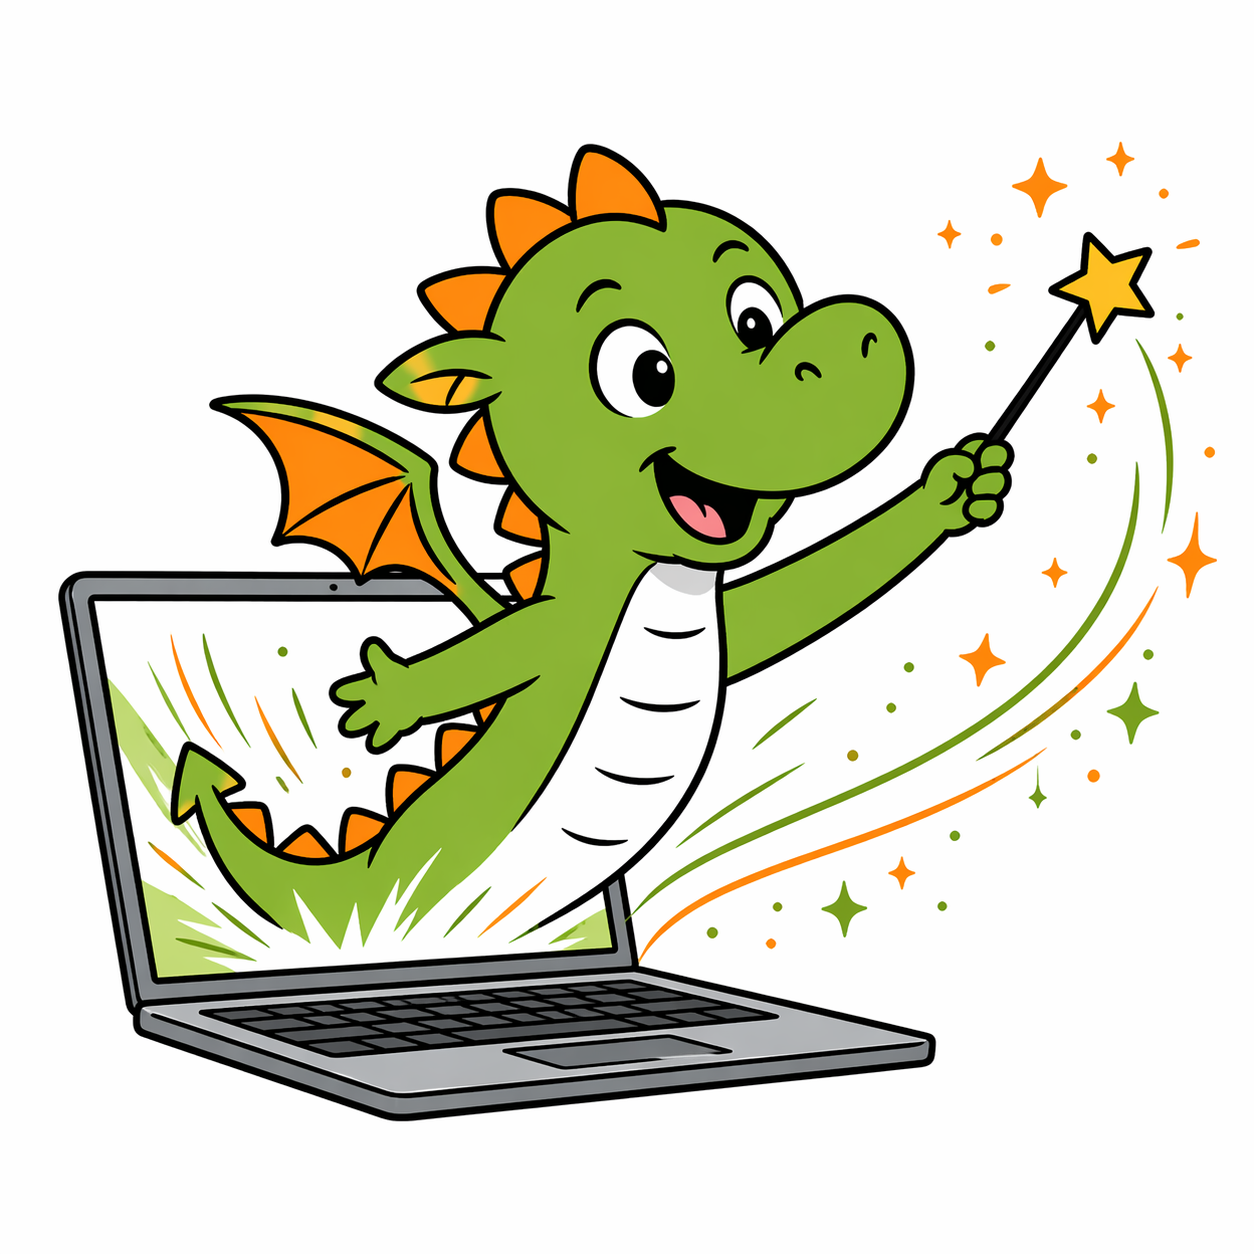
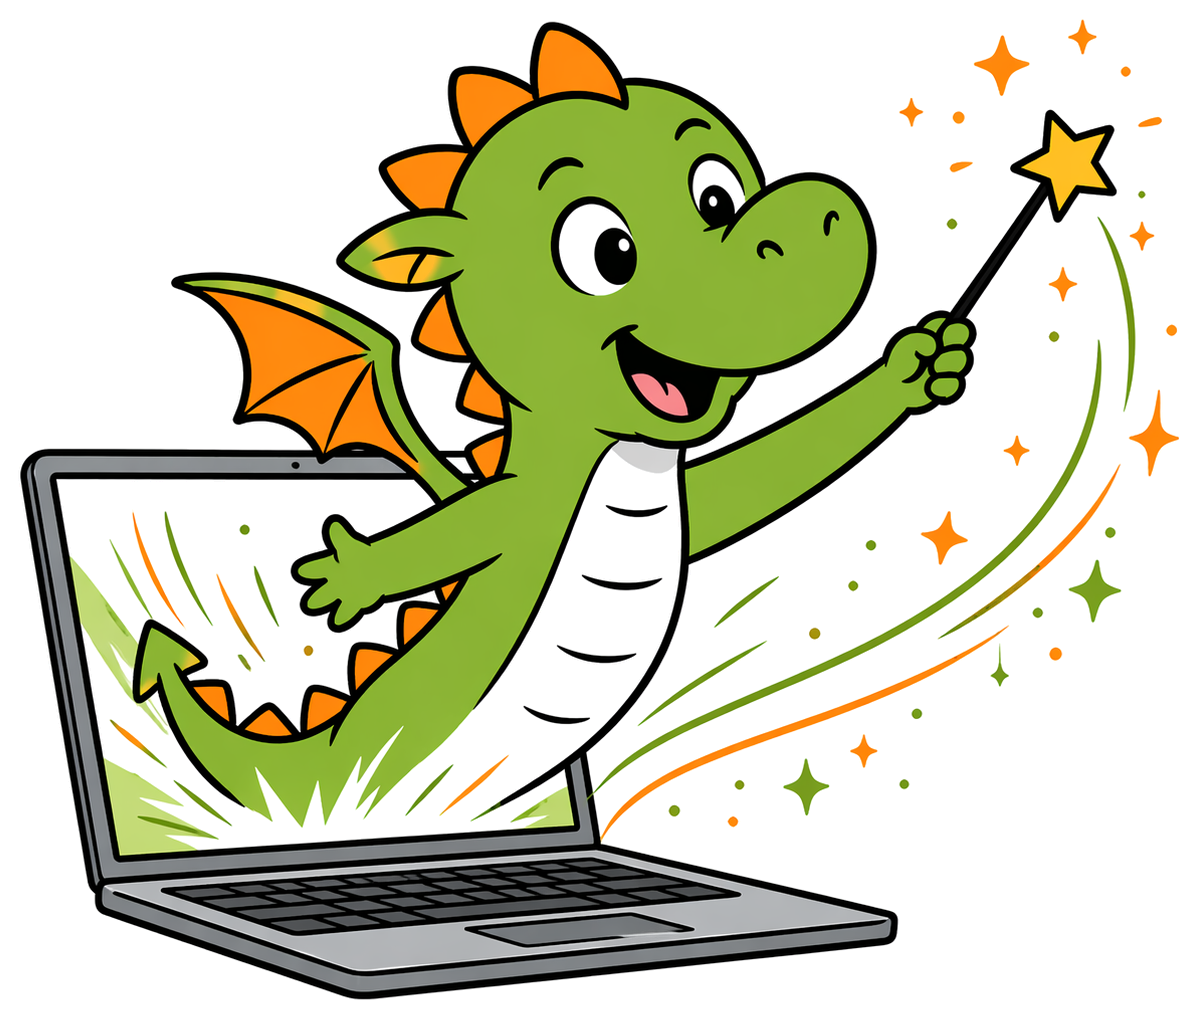
Arbeitsprofile gekürzt, Karten ohne Etikett, Schritte untereinander
- Karten ohne Etikett (::: karte ohne Titel), Agenten-Hinweis gestrichen
- Link auf Kurz-URL www.juliajunge.de/agentische-ki
- Schritte einspaltig (::: schritte untereinander), Promptbibliothek und Beispiel gestrichen
- Drachenbild zugeschnitten, Kopf im Druck enger (nicht bei Leitfaden und Querformat)

Claude-Session: https://claude.ai/code/session_01SQ2mq2EUK2o4GeAS2NyggR

diff --git a/vorlage/handout.css b/vorlage/handout.css
@@ -188,7 +188,7 @@ mark { background: var(--jj-marker); color: var(--jj-black); padding: 0 3px; }
   a { color: var(--jj-black); }
   .inhalt a[href^="http"]:not(.url-sichtbar)::after { content: " (" attr(href) ")"; font-size: 8pt; word-break: break-all; }
 
-  .hero { padding-bottom: 12px; }
+  .hero { padding-bottom: 8px; margin-top: -4mm; }
   .hero-text { gap: 0; }
   .hero .label, .hero .strich { display: none; }
   .hero h1 { font-size: 26pt; }
@@ -206,6 +206,7 @@ mark { background: var(--jj-marker); color: var(--jj-black); padding: 0 3px; }
   .schritte li { grid-template-columns: 28px minmax(0, 1fr); gap: 0 10px; }
   .schritte li::before { width: 28px; height: 28px; font-size: 1.2em; }
   .schritte li p, .schritte li h3 { margin-bottom: 2px; }
+  .schritte--untereinander ol { grid-template-columns: 1fr; gap: 10px; }
 
   .tipp { padding: 10px 16px; margin-bottom: 0; }
 
@@ -319,7 +320,7 @@ mark { background: var(--jj-marker); color: var(--jj-black); padding: 0 3px; }
 
 @media print {
   /* Titelseite: Label, Strich und großes Bild wie in der Webansicht */
-  .handout:has(.leitfaden) .hero { padding-bottom: 20px; }
+  .handout:has(.leitfaden) .hero { padding-bottom: 20px; margin-top: 0; }
   .handout:has(.leitfaden) .hero-text { gap: 14px; }
   .handout:has(.leitfaden) .hero .label, .handout:has(.leitfaden) .hero .strich { display: block; }
   .handout:has(.leitfaden) .hero h1 { font-size: 28pt; }
@@ -377,6 +378,7 @@ body.quer .handout { max-width: 1200px; }
   body.quer .seite { min-height: 190mm; }
   body.quer .kopf { display: none; }  /* Logo steckt schon in der Drachenlinie, spart Höhe */
   body.quer .hero-bild { width: 18mm; }  /* Matrix braucht die Höhe */
+  body.quer .hero { margin-top: 0; }
 }
 
 /* ---------- Reifegradmodell (Matrix mit sechs Spalten) ---------- */
@@ -422,5 +424,5 @@ body.quer .handout { max-width: 1200px; }
   body.mehrseitig .inhalt h2 { margin-top: 16px; margin-bottom: 6px; }
   body.mehrseitig .inhalt > h2:first-child { margin-top: 0; }
   body.mehrseitig .hero-bild { width: 32mm; }
-  body.mehrseitig .hero { padding-bottom: 2px; margin-top: -4mm; }
+  body.mehrseitig .hero { padding-bottom: 2px; }
 }

diff --git a/build.py b/build.py
@@ -35,12 +35,17 @@ def container(md, name, oeffnen, schliessen="</div>\n"):
     md.use(container_plugin, name, render=render)
 
 
+def karten_label(titel):
+    """Etikett über der Karte; ohne Titel (nur ::: karte) gibt es keins."""
+    return f'<div class="karte-label">{titel}</div>\n' if titel else ""
+
+
 def markdown():
     md = MarkdownIt("commonmark", {"typographer": False})
     container(md, "karten", lambda _: '<div class="karten">\n')
-    container(md, "karte", lambda t: f'<div class="karte">\n<div class="karte-label">{t}</div>\n')
-    container(md, "rahmenkarte", lambda t: f'<div class="karte karte--rahmen">\n<div class="karte-label">{t}</div>\n')
-    container(md, "schritte", lambda _: '<div class="schritte">\n')
+    container(md, "karte", lambda t: f'<div class="karte">\n{karten_label(t)}')
+    container(md, "rahmenkarte", lambda t: f'<div class="karte karte--rahmen">\n{karten_label(t)}')
+    container(md, "schritte", lambda t: '<div class="schritte schritte--untereinander">\n' if t == "untereinander" else '<div class="schritte">\n')
     container(
         md, "tipp",
         lambda _: '<aside class="tipp"><img class="tipp-icon" src="../vorlage/bilder/icon-tipp.svg" alt="">\n<div class="tipp-text">\n',

diff --git a/handouts/ki-arbeitsprofile/handout.md b/handouts/ki-arbeitsprofile/handout.md
@@ -1,7 +1,7 @@
 ---
 titel: KI-Arbeitsprofile bauen
 label: Handout
-stand: 28. September 2026
+stand: 9. Oktober 2026
 bild: drache-laptop.png
 bild_alt: Drache springt mit Zauberstab aus einem Laptop
 pdf_name: ki-arbeitsprofile-bauen
@@ -11,7 +11,7 @@ pdf_name: ki-arbeitsprofile-bauen
 
 :::: karten
 
-::: karte Assistenzen
+::: karte
 **Assistenzen** sind strukturierte, längere “Unterbots” mit Rollenbeschreibung, Infos, Abläufen und Rückfragen, die dir wiederkehrende Aufgaben abnehmen.
 
 z.B.: *„Du bist Veranstaltungsplaner und hilfst, eine Checkliste zu erstellen. Frage zuerst…“*
@@ -19,7 +19,7 @@ z.B.: *„Du bist Veranstaltungsplaner und hilfst, eine Checkliste zu erstellen.
 > Assistenzen heißen in ChatGPT (Custom)GPTs, bei Gemini Gems, bei Langdock und Copilot Agenten. Sie sind in der Regel nur in kostenpflichtigen Versionen enthalten und werden zunehmend von Skills abgelöst.
 :::
 
-::: karte Projekte
+::: karte
 **Projekte** sind meist als Ordner angelegte Bereiche in KI-Tools, in denen Dateien hochgeladen und Instruktionen gespeichert werden können.
 
 Beispiel: Mein Projekt KI-Lernreise enthält Info-Sheets und Präsentationen und kann darauf basierend kleine Anfragen, wie Mails, Linkedin-Posts oder Konzeptfragen beantworten.
@@ -27,35 +27,31 @@ Beispiel: Mein Projekt KI-Lernreise enthält Info-Sheets und Präsentationen und
 > Projekte sind im kleinen Umfang auch in kostenlosen Lizenzen verfügbar.
 :::
 
-::: karte Skills
+::: karte
 **Skills** sind konkrete, eher kleine Instruktionen, die für viele Arbeitsprozesse gelten (z.B. Genderregel oder Design einer Vorlage). Sie aktivieren sich selbstständig, wenn Triggerworte auftauchen. Sie werden aktuell Tool-übergreifend ausgerollt.
 
 > Skills sind bisher nur in kostenpflichtigen Versionen verfügbar.
 :::
 
-::: rahmenkarte Agenten
+::: rahmenkarte
 **Agenten** sind komplexe Systeme, die selber Strategien entwickeln und Tools eigenständig aktiv einsetzen. NUR für Fortgeschrittene und bezahlpflichtig.
 
-Die bekanntesten sind **ChatGPT Work** und **Claude Cowork**. Mehr dazu in meinem Blog-Artikel: [Was NGOs im Sommer 2026 über agentische KI wissen müssen](https://www.juliajunge.de/was-ngos-im-sommer-2026-ueber-agentische-ki-wissen-muessen/)
-
-> (Leider heißen bei Langdock, Mistral und Copilot die Assistenzen Agenten, obgleich es NUR Assistenzen wie oben beschrieben sind.)
+Die bekanntesten sind **ChatGPT Work** und **Claude Cowork**. Mehr dazu in meinem Blog-Artikel: [www.juliajunge.de/agentische-ki](https://www.juliajunge.de/agentische-ki)
 :::
 
 ::::
 
 ## Schritt für Schritt zu eigenen Arbeitsprofilen
 
-::: schritte
+::: schritte untereinander
 1. ### Entdecke Use Cases im Alltag
    Welche Aufgabe wiederholt sich? Was fragen Kolleg*innen dich ständig? Wo denkst du: „Das müsste mir doch KI abnehmen können…“?
 
 2. ### Schreibe einen guten Prompt
-   So konkret wie nötig, so kurz wie möglich. Benenne Rolle, Ziel und Aufgabe klar benennen. Nutze das KLARO-Schema. Lasse dir aus guten Chats Infos für Prompts zusammenfassen. Speichere den Prompt in deinem KI-Tool als Assistenz/Skill/Projekt ODER: Baue eine eigene kleine **Promptbibliothek** (z.B. in Word, Notion oder OneNote).
+   So konkret wie nötig, so kurz wie möglich. Benenne Rolle, Ziel und Aufgabe klar. Nutze das KLARO-Schema. Lasse dir aus guten Chats Infos für Prompts zusammenfassen. Speichere den Prompt in deinem KI-Tool als Assistenz/Skill/Projekt.
 
 3. ### Hinterlege Wissen und Beispiele und integriere Rückfragen
    Was braucht die Assistenz, um gut arbeiten zu können? Wenn die KI auf etwas warten oder nachfragen soll – gib das mit an.
-
-   z.B: ==„Bitte frage zuerst nach dem Thema, bevor du loslegst.“==
 
 4. ### Testen, teilen, verbessern
    Teste deinen Prompt im Alltag. Verbessere ihn. Teile ihn mit anderen. Verbessere ihn.

diff --git a/README.md b/README.md
@@ -73,6 +73,8 @@ Karte nur mit Rahmen statt Hintergrundfarbe
 ::::
 ```
 
+Ohne Titel hinter `karte` bzw. `rahmenkarte` bekommt die Karte kein Etikett.
+
 **Nummerierte Schritte** (orange Kreise):
 
 ```markdown
@@ -84,6 +86,8 @@ Karte nur mit Rahmen statt Hintergrundfarbe
    Erklärung …
 :::
 ```
+
+Im Druck stehen die Schritte zweispaltig. Mit `::: schritte untereinander` stehen sie in einer Spalte.
 
 **Tipp-Kasten** (grüner Rahmen mit Sternchen):
 
